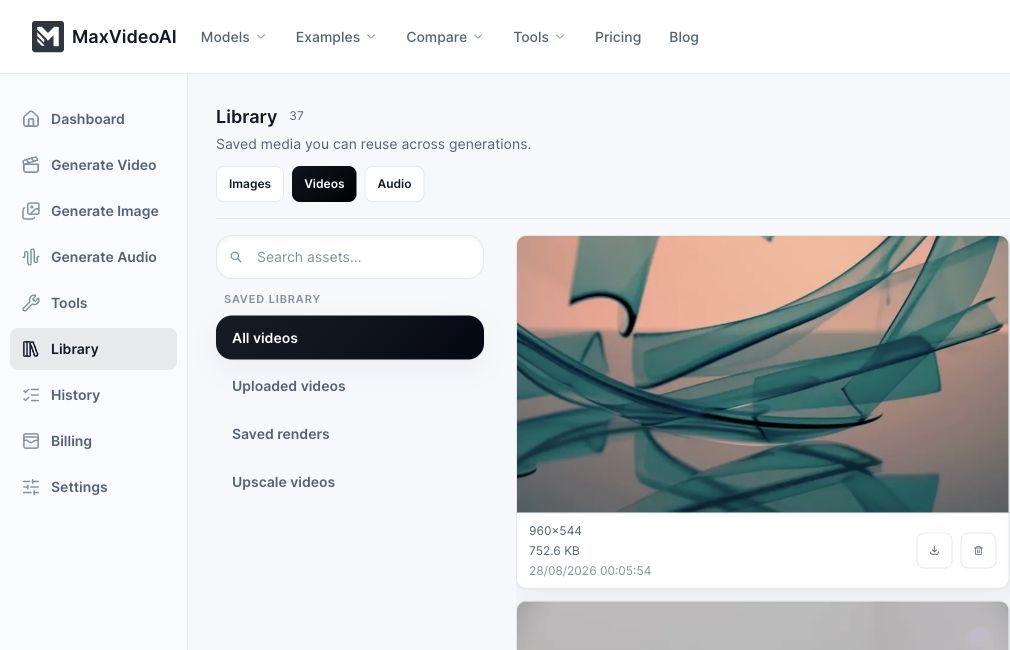
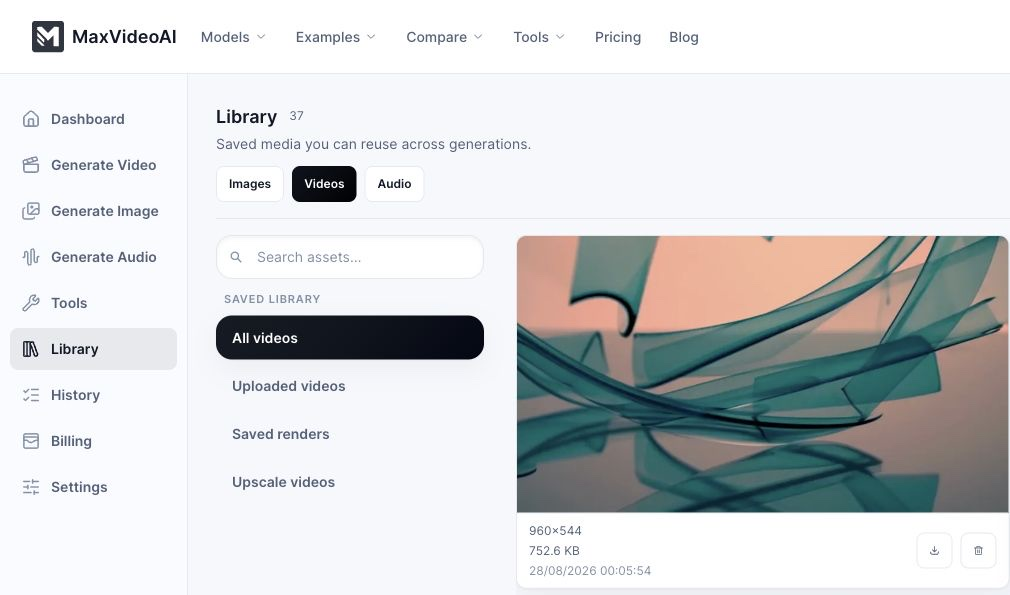
fix(plugin): crop unrelated library media from proof

diff --git a/docs/marketing/mcp-launch-evidence.md b/docs/marketing/mcp-launch-evidence.md
@@ -79,8 +79,8 @@ banner. The accepted product evidence is:
   — 1450×525, SHA-256
[1 lines of base64/hex data omitted]
 - `plugins/maxvideoai/assets/screenshots/maxvideoai-library-continuity-production.jpg`
-  — 1010×650, SHA-256
[1 lines of base64/hex data omitted]
+  — 1010×595, SHA-256
[1 lines of base64/hex data omitted]
 
 Exact-host publication proof remains deliberately narrower than service and
 product verification. The macOS Screen Recording preflight failed before a

diff --git a/docs/marketing/mcp-demo-evidence.md b/docs/marketing/mcp-demo-evidence.md
@@ -181,8 +181,8 @@ Future proof requires all of the following together: a publishable result, a job
       {
         "path": "plugins/maxvideoai/assets/screenshots/maxvideoai-library-continuity-production.jpg",
         "width": 1010,
-        "height": 650,
[1 lines of base64/hex data omitted]
+        "height": 595,
[1 lines of base64/hex data omitted]
         "capturedAt": "2026-08-27T22:09:32Z"
       }
     ],
